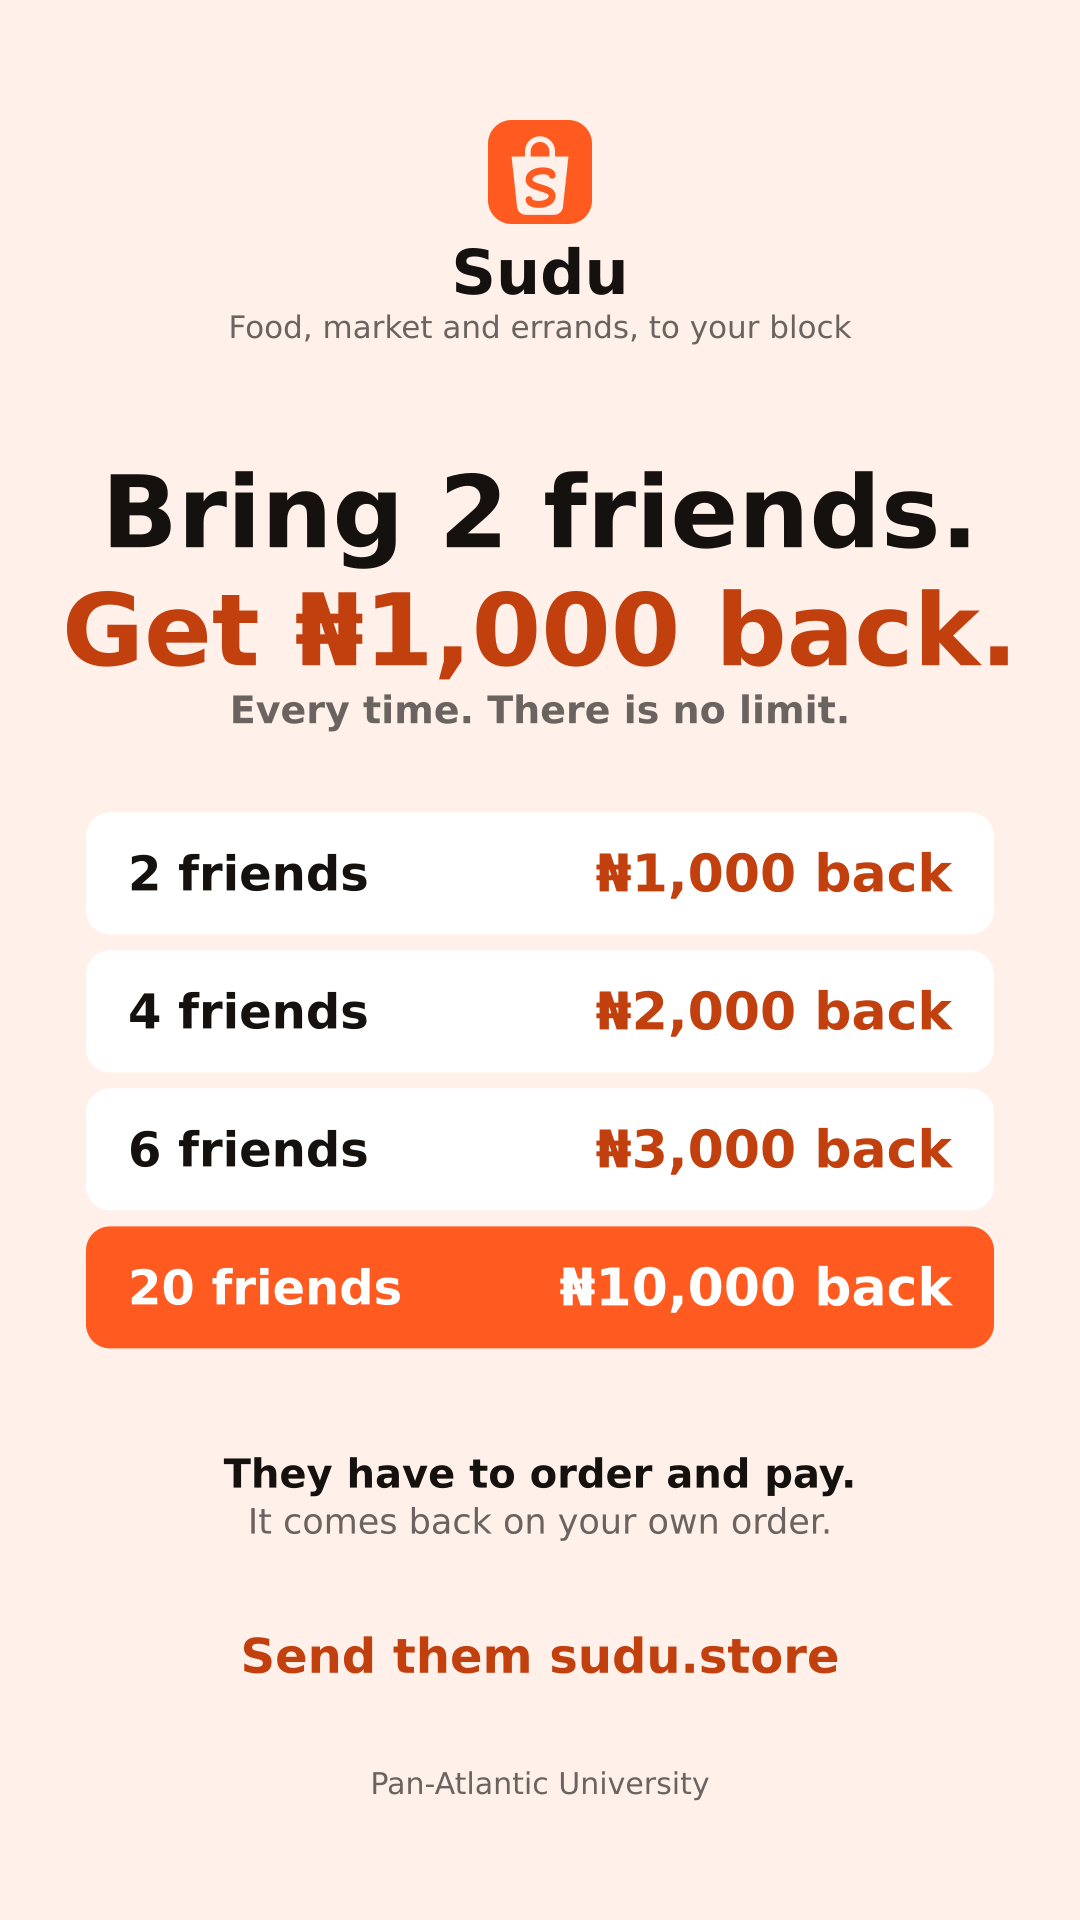
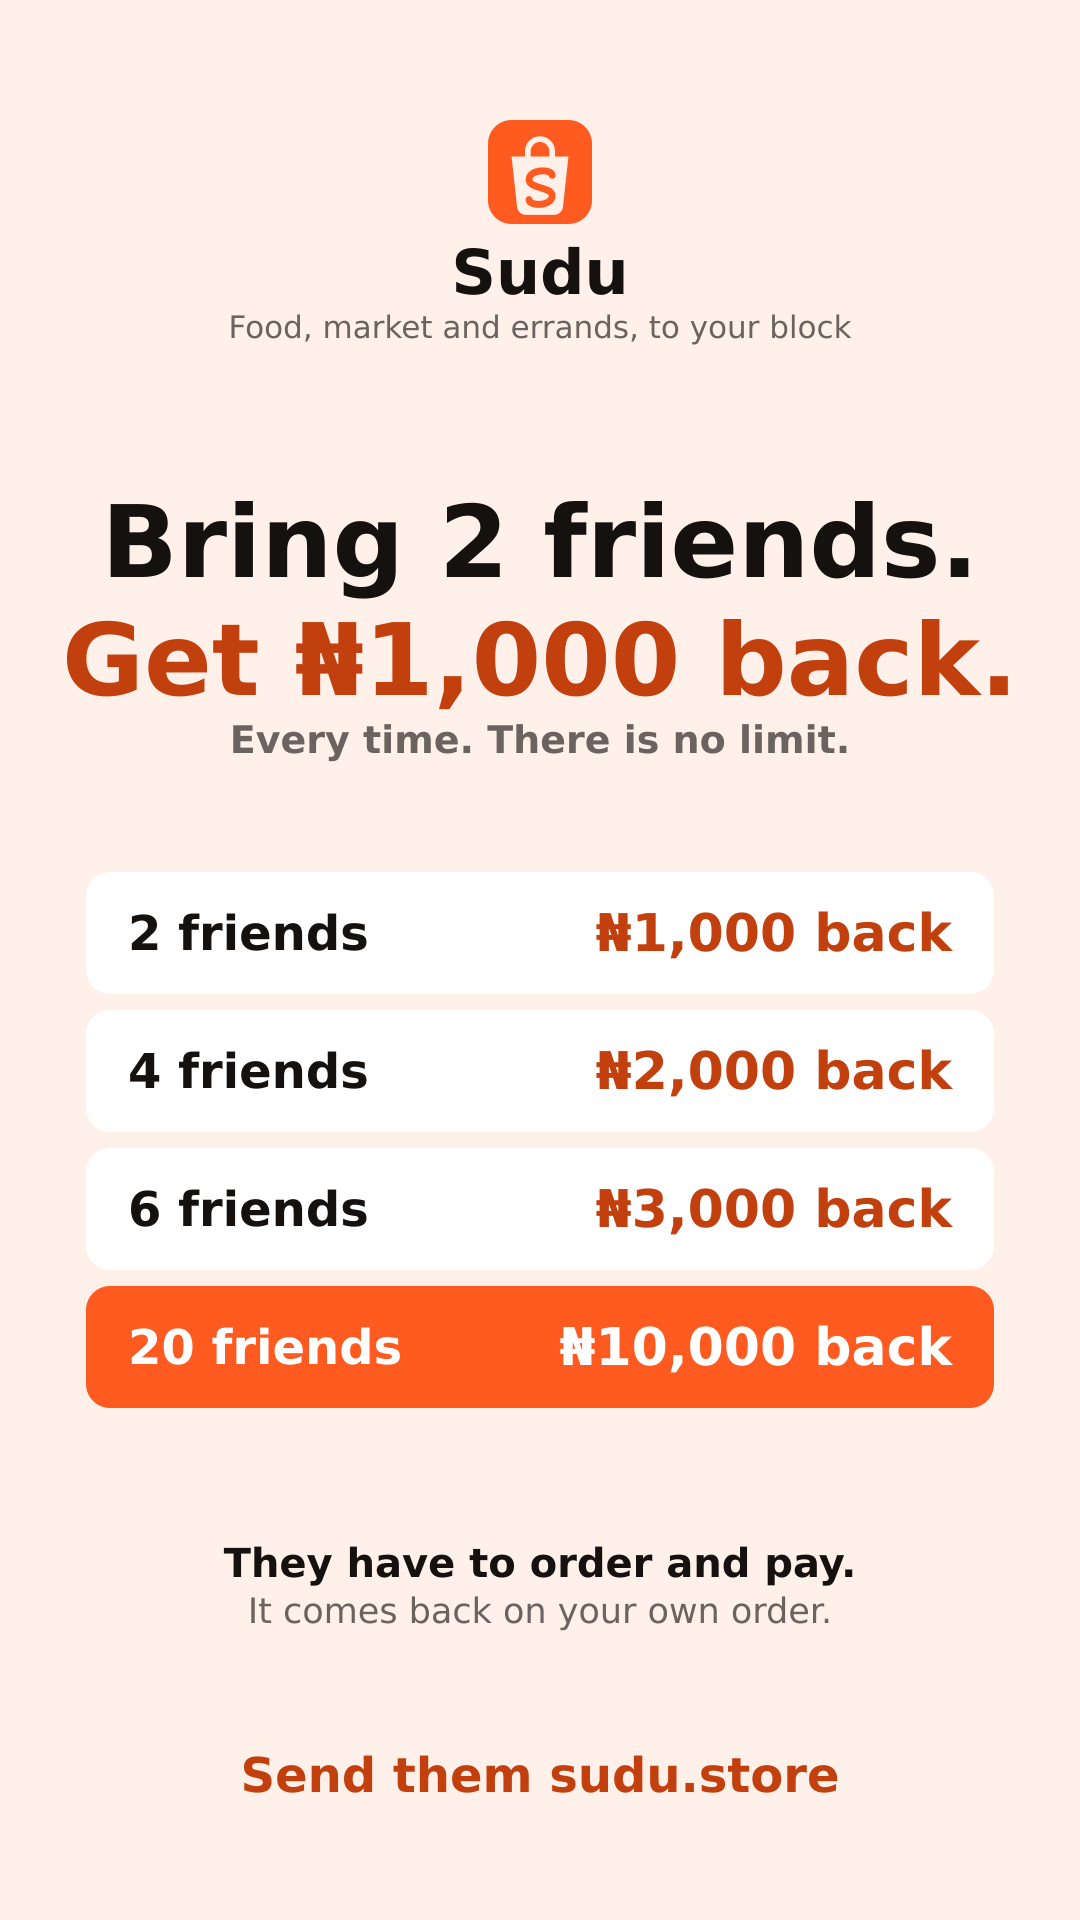
Not a line telling students where they go
The invite picture closed on "Pan-Atlantic University". Everybody it is
sent to is already a student here, and a picture read in one glance
cannot afford a sentence telling its reader something they know about
themselves. Removing it also gives the rest of the page the air it was
short of: the gaps on the chat shape go from 17 to 30.

Claude-Session: https://claude.ai/code/session_01A62TtZ3majrmppVL3Tnmwq

Changed region(s): [[0.0611, 0.4375, 0.9167, 0.875], [0.0611, 0.2188, 0.9472, 0.4062], [0.2139, 0.9062, 0.7944, 0.9375]]

diff --git a/scripts/invite-flyer.ts b/scripts/invite-flyer.ts
@@ -202,14 +202,12 @@ async function draw(W: number, H: number, name: string): Promise<void> {
     ],
   };
 
-  const foot: Block = {
-    height: 34,
-    draw: (y) => [
-      text(mid, y + 28, "Pan-Atlantic University", tall ? 30 : 26, "normal", MUTED),
-    ],
-  };
-
-  const blocks = [header, hook, ladder, terms, how, foot];
+  /*
+   * No line naming the university. Everybody this is sent to is already a
+   * student here, and a picture read in one glance cannot afford a sentence
+   * telling its reader something they know about themselves.
+   */
+  const blocks = [header, hook, ladder, terms, how];
   const used = blocks.reduce((sum, one) => sum + one.height, 0);
   const gap = Math.max(10, (H - edge * 2 - used) / (blocks.length - 1));
 
